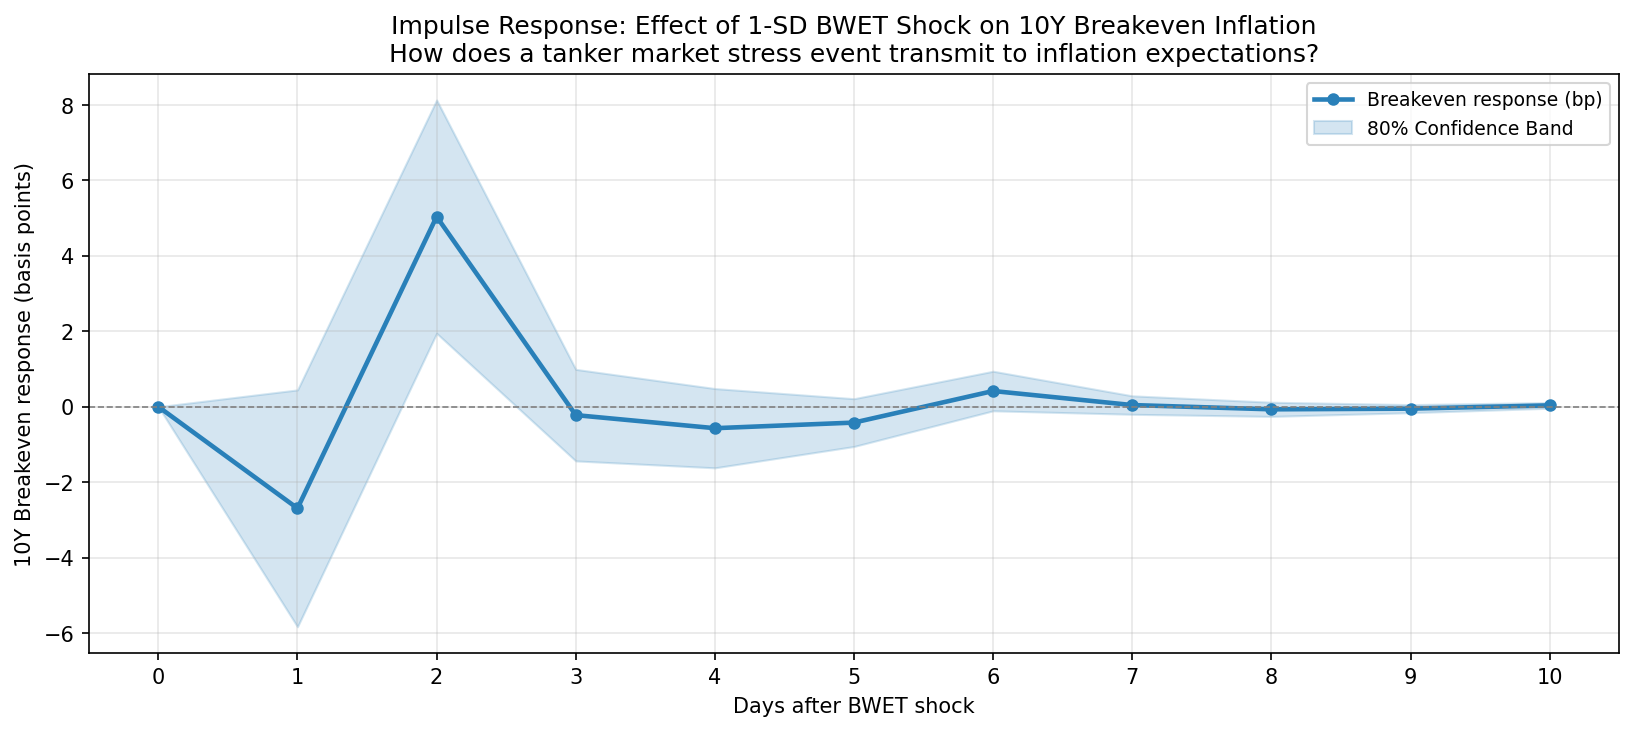
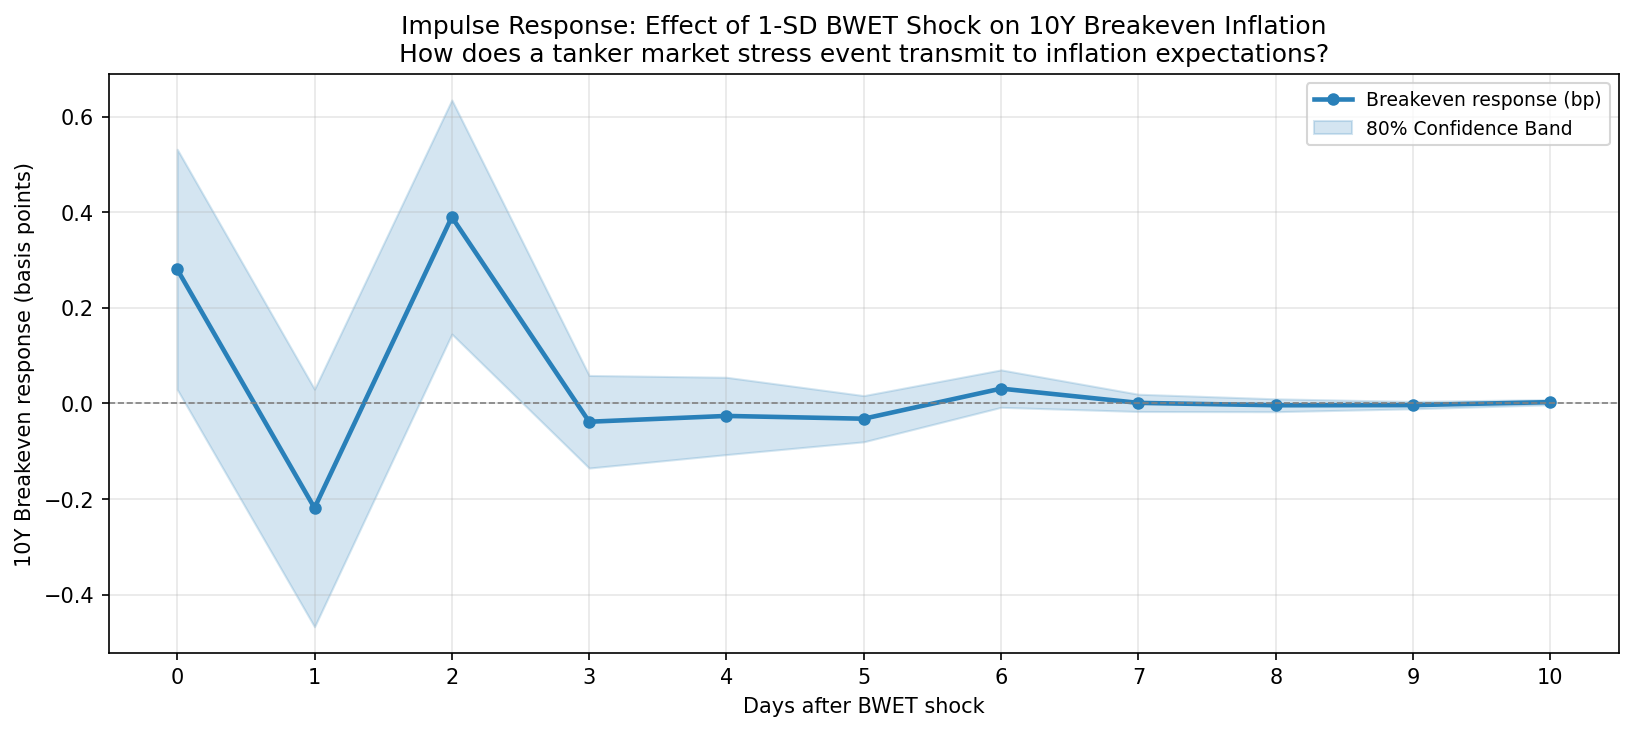
Fix IRF: use orthogonalized IRF for correct 1-SD normalization

diff --git a/irf_analysis.py b/irf_analysis.py
@@ -29,12 +29,10 @@ results = model.fit(2)
 irf = results.irf(periods=10)
 
 # Extract BWET shock → breakeven response
-# irf.irfs shape: (periods+1, n_vars, n_vars)
-# [period, response_var, impulse_var]
-# bwet=0, wti=1, breakeven=2
-bwet_to_breakeven = irf.irfs[:, 2, 0]   # breakeven response to BWET shock
-lower = irf.irfs[:, 2, 0] - 1.28 * irf.stderr()[:, 2, 0]
-upper = irf.irfs[:, 2, 0] + 1.28 * irf.stderr()[:, 2, 0]
+bwet_to_breakeven = irf.orth_irfs[:, 2, 0]
+se = irf.stderr(orth=True)[:, 2, 0]
+lower = bwet_to_breakeven - 1.28 * se
+upper = bwet_to_breakeven + 1.28 * se
 
 periods = np.arange(len(bwet_to_breakeven))
 